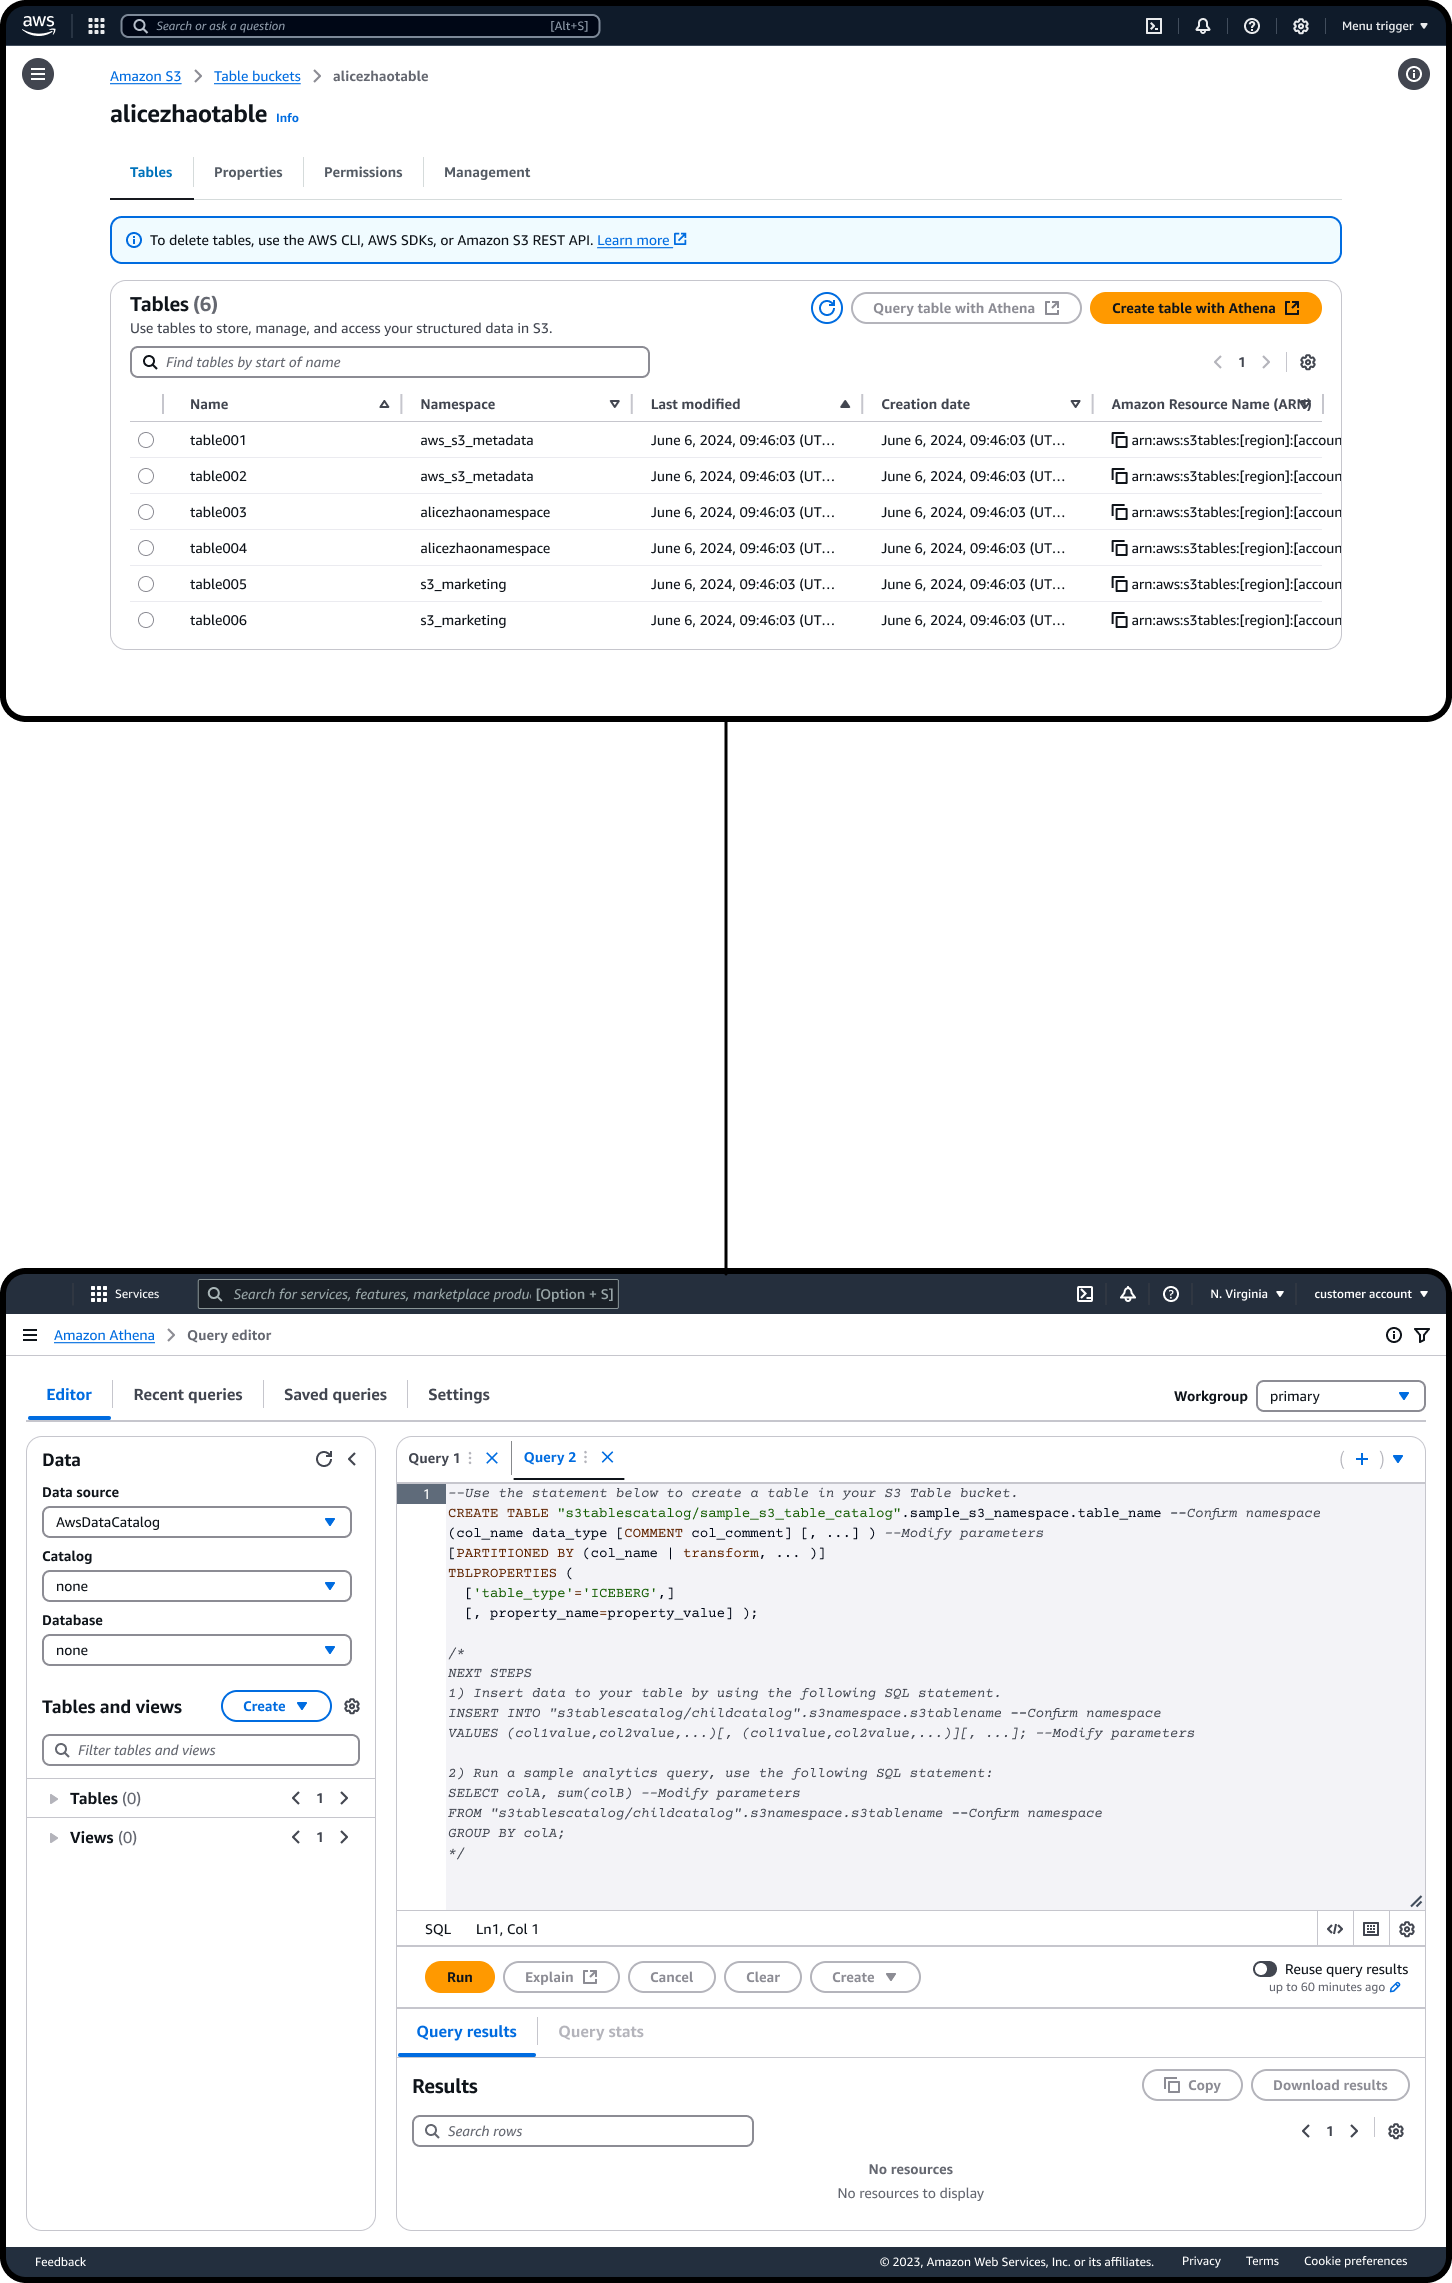
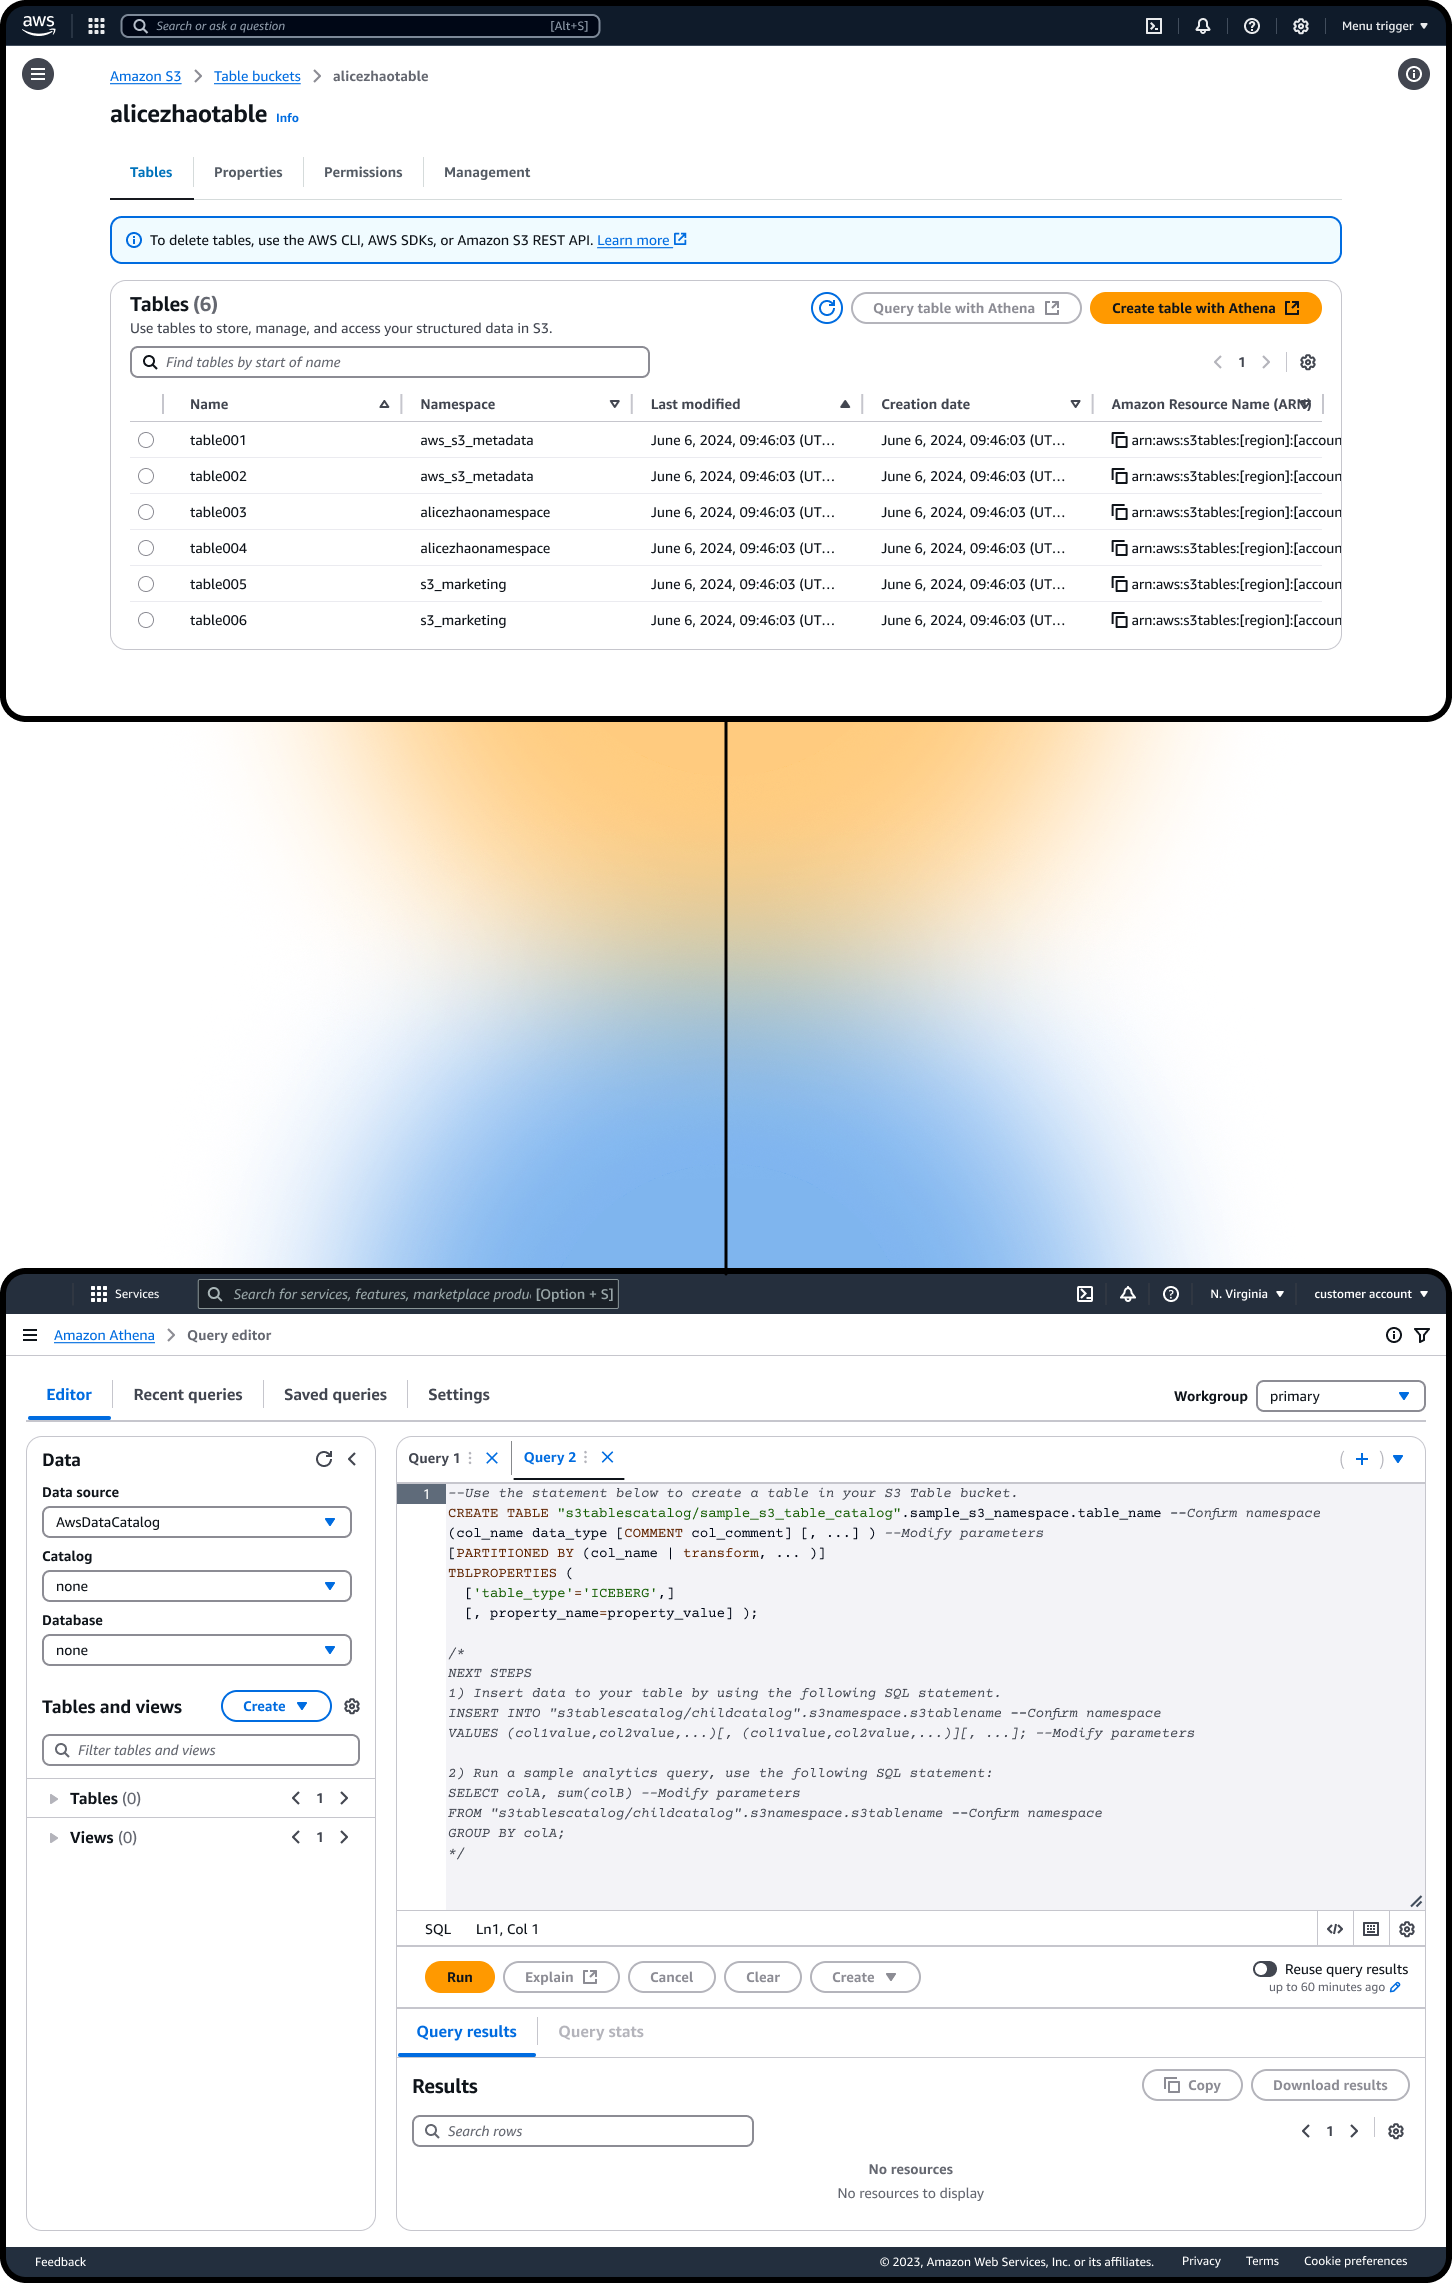
update the tags

Changed region(s): [[0.186, 0.311, 0.8058, 0.5598]]

diff --git a/app/components/HomepageScroll.module.css b/app/components/HomepageScroll.module.css
@@ -56,6 +56,29 @@
   position: relative;
   z-index: 1;
 }
+.linksContent {
+  position: relative;
+  z-index: 1;
+  width: 100%;
+  height: 100%;
+  display: flex;
+  flex-direction: column;
+  justify-content: center;
+  padding: 20px;
+  box-sizing: border-box;
+}
+.linksItem {
+  font-family: var(--f-display);
+  font-size: clamp(1.125rem, 4vw, 3rem);
+  font-weight: 400;
+  line-height: 1;
+  color: var(--ink);
+  text-decoration: none;
+  padding: 0.2em 0;
+}
+.linksItem:hover {
+  color: var(--muted);
+}
 .content {
   position: relative;
   z-index: 1;

diff --git a/app/components/HomepageScroll.js b/app/components/HomepageScroll.js
@@ -72,9 +72,13 @@ const CARD_DEFS = [
     from: "right",
     layout: "center",
     href: "/about" },
-  { id: "links",     
-    label: "Links",             
-    pos: "side-br",   
+  { id: "links",
+    links: [
+      { label: "LinkedIn", href: "https://www.linkedin.com/in/liangzhaoux/" },
+      { label: "Resume", href: "https://drive.google.com/file/d/1mJRSpRVt-9k0j9rOz154nCsfPWPXsa4D/view" },
+      { label: "Email", href: "mailto:[email redacted]" },
+    ],
+    pos: "side-br",
     from: "right" },
 ].map(def => {
   if (!def.slug) return { ...def, slides: [] };
@@ -275,7 +279,15 @@ function SecondaryCard({ def, style, hoverable }) {
             alt=""
           />
         )}
-        {def.title ? (
+        {def.links ? (
+          <div className={s.linksContent}>
+            {def.links.map((link, i) => (
+              <a key={i} className={s.linksItem} href={link.href} target="_blank" rel="noopener noreferrer">
+                {link.label}
+              </a>
+            ))}
+          </div>
+        ) : def.title ? (
           <div className={`${s.content} ${def.layout === "center" ? s.centerLayout : ""}`}>
             <div className={s.metaRow}>
               {def.year && <span className={s.year}>{def.year}</span>}

diff --git a/app/data/projects.js b/app/data/projects.js
@@ -158,23 +158,23 @@ export const projects = {
             subheading: "Unified data storage for AI/ML workloads",
             text: "The S3 Tables console enables customers to create, manage, and query structured data for analytics and AI/ML workloads in a few clicks, drastically simplifies the way customers manage their storage.",
             images: [
-              { src: "/img/s3tables/final-visual/tablebucketlist.jpg", alt: "S3 Tables console overview" },
-              { src: "/img/s3tables/final-visual/tablebucketdetail.jpg", alt: "S3 Table bucket list page" },
+              { src: "/img/s3tables/final-visual/tablebucketlist.png", alt: "S3 Tables bucket overview" },
+              { src: "/img/s3tables/final-visual/tablebucketdetail.png", alt: "S3 Table bucket detail page" },
             ],
           },
           {
             subheading: "Seamless Integration",
             text: "What previously required custom-built infrastructure is now handled automatically. Integration across multiple AWS services is reduced to a single click during table bucket creation.",
             images: [
-              { src: "/img/s3tables/final-visual/createtablebucket.jpg", alt: "Integration configuration" },
-              { src: "/img/s3tables/final-visual/integratepage.jpg", alt: "Single-click integration" },
+              { src: "/img/s3tables/final-visual/createtablebucket.png", alt: "Integration configuration" },
+              { src: "/img/s3tables/final-visual/integratepage.png", alt: "Single-click integration" },
             ],
           },
           {
             subheading: "One click from data to insights",
             text: "Once created, customers manage their tables from a single console. Table bucket details, permission controls, and storage settings are all accessible without switching between services.",
             images: [
-              { src: "/img/s3tables/final-visual/oneclick.jpg", alt: "Table management console" },
+              { src: "/img/s3tables/final-visual/oneclick.png", alt: "Table management console" },
             ],
           },
           {

diff --git a/app/components/Footer.module.css b/app/components/Footer.module.css
@@ -1,6 +1,6 @@
 .footer {
   border-top: 1px solid var(--ink);
-  padding: 20px 48px;
+  padding: 12px var(--page-gutter);
   display: flex;
   justify-content: space-between;
   font-size: var(--t-label);